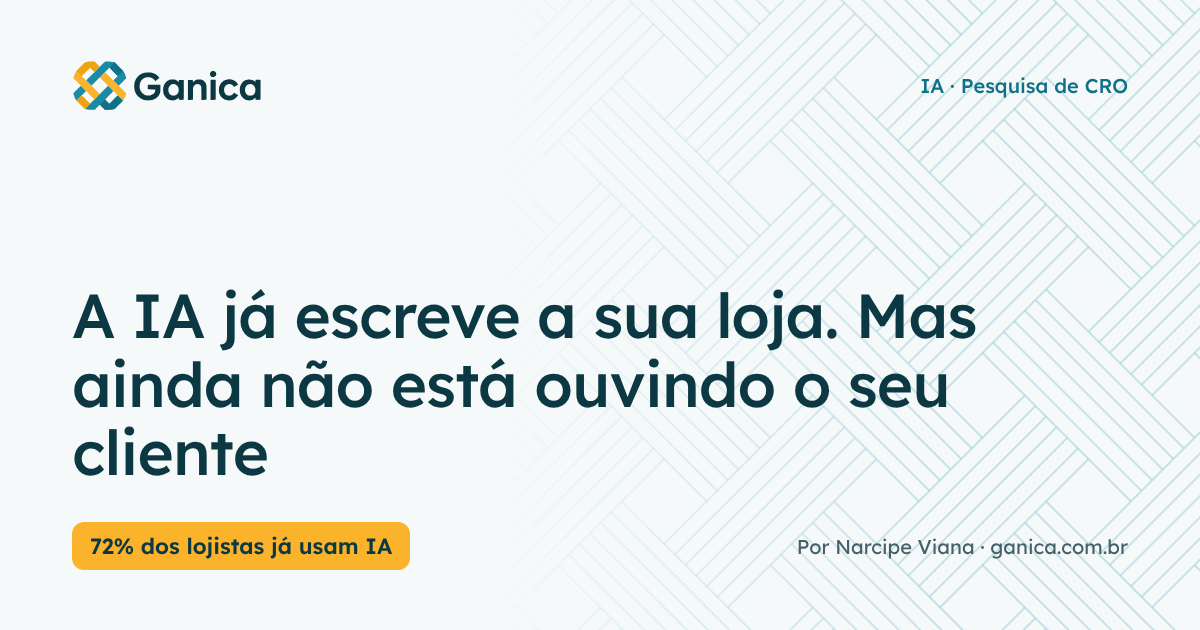
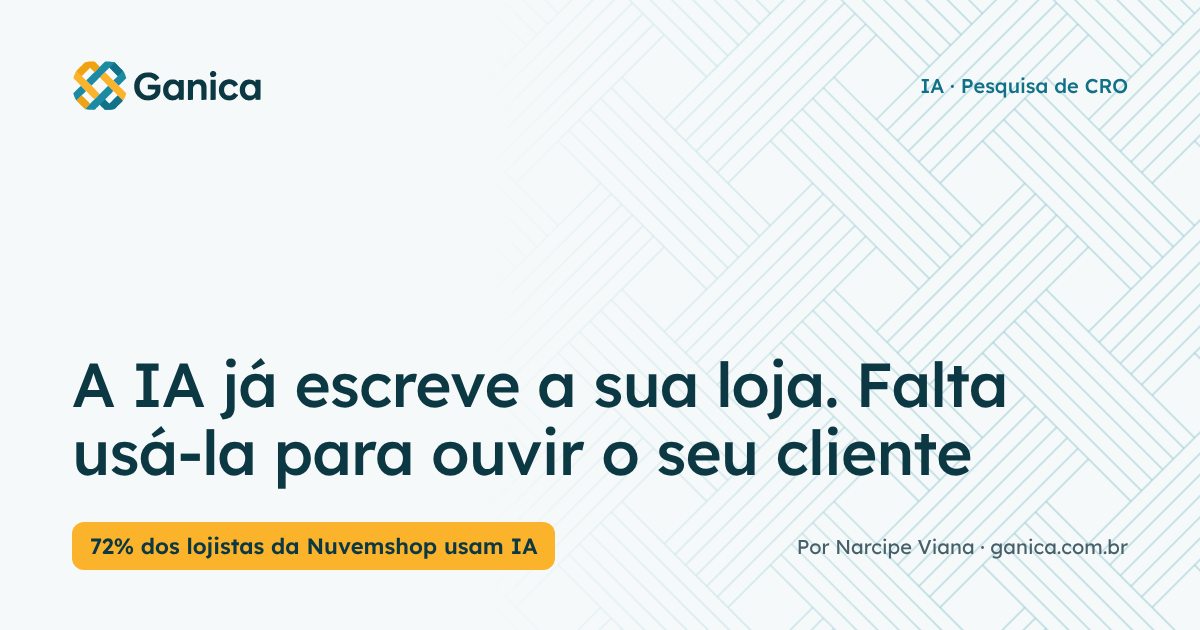
Publica estudo: A IA já escreve a sua loja. Falta usá-la para ouvir o seu cliente
Claude-Session: https://claude.ai/code/session_01MZ6zKQQzgzHvKEa5Rb3z2d

Changed region(s): [[0.0617, 0.4524, 0.8633, 0.7841], [0.2158, 0.8143, 0.4625, 0.9048]]

diff --git a/src/artigos/ia-pesquisa-cro-ecommerce-brasil.md b/src/artigos/ia-pesquisa-cro-ecommerce-brasil.md
@@ -1,20 +1,20 @@
 ---
-title: "A IA já escreve a sua loja. Mas ainda não está ouvindo o seu cliente"
-seo_title: "IA na pesquisa de CRO: o que automatizar no e-commerce"
-og_title: "IA na pesquisa de CRO: o que o e-commerce brasileiro deveria automatizar"
-description: "72% dos lojistas brasileiros já usam IA, a maioria para escrever. Veja o que automatizar na pesquisa de CRO, o que nunca delegar e onde entra a LGPD."
-twitter_description: "O e-commerce brasileiro usa IA para escrever descrição de produto. O ganho maior está em usar IA para entender o cliente, com método e cuidado com a LGPD."
+title: "A IA já escreve a sua loja. Falta usá-la para ouvir o seu cliente"
+seo_title: "IA na pesquisa de CRO: como ouvir o cliente com método e LGPD"
+og_title: "IA na pesquisa de CRO: o e-commerce usa IA para escrever, falta usá-la para ouvir o cliente"
+description: "IA na pesquisa de CRO: 72% dos lojistas da Nuvemshop já usam IA, sobretudo no catálogo. Veja como usar IA para ouvir o cliente, com critério e LGPD."
+twitter_description: "Na Nuvemshop, o lojista usa IA sobretudo para preencher o catálogo. O ganho maior está em usar IA para entender o cliente, com método e cuidado com a LGPD."
 slug: ia-pesquisa-cro-ecommerce-brasil
-date: '2026-11-06'
-updated: '2026-11-06'
-rascunho: true
-publicar_em: '2026-11-06'
+date: '2026-11-09'
+hora: "07:13"
+updated: '2026-11-09'
+rascunho: false
 breadcrumb: IA na pesquisa de CRO
 secao: E-commerce
 card_kicker: "IA · Pesquisa de CRO"
-card_destaque: "72% dos lojistas já usam IA"
-card_titulo: "A IA já escreve a sua loja. Mas ainda não está ouvindo o seu cliente."
-card_resumo: "Os lojistas brasileiros adotaram IA para produzir conteúdo. Cruzamos dados do Brasil com o método proposto pela CXL para mostrar onde a IA rende mais na pesquisa de CRO, e onde ela não deve decidir sozinha."
+card_destaque: "72% dos lojistas da Nuvemshop usam IA"
+card_titulo: "A IA já escreve a sua loja. Falta usá-la para ouvir o seu cliente."
+card_resumo: "Os lojistas da Nuvemshop usam IA sobretudo no catálogo e querem levá-la ao marketing em 2026. Partimos de um método publicado pela CXL e de dados do Brasil para mostrar onde a IA ajuda a entender o cliente, e onde ela não deve decidir sozinha."
 tags_artigo:
   - CRO
   - inteligência artificial
@@ -24,7 +24,7 @@ keywords:
   - IA para CRO
   - inteligência artificial no e-commerce
   - pesquisa de CRO com IA
-  - análise heurística com IA
+  - voz do cliente com IA
   - IA e LGPD no e-commerce
 sobre:
   - Otimização de conversão (CRO)
@@ -32,126 +32,124 @@ sobre:
   - Pesquisa de usuário
   - Lei Geral de Proteção de Dados
 imagem_og: ''
-resposta_curta: "Na pesquisa de CRO, a IA rende mais quando organiza evidência e menos quando decide. Automatize a revisão heurística inicial, o agrupamento de comentários, chamados e respostas de pesquisa em temas, e o rascunho de hipóteses. Mantenha com pessoas a validação contra o comportamento real, a priorização do backlog e qualquer coisa que substitua a voz do cliente. E retire dados pessoais antes de enviar qualquer material à ferramenta."
-deck: "O e-commerce brasileiro adotou IA rápido, mas quase sempre para produzir conteúdo. Este estudo parte de um método publicado pela CXL, confronta com dados do Brasil e mostra o que vale automatizar na pesquisa de CRO, o que nunca delegar e o que a LGPD muda nessa conta."
+resposta_curta: "Na pesquisa de CRO, a IA rende mais quando organiza evidência e menos quando decide. Entregue a ela o trabalho braçal que dá para conferir por amostragem: agrupar perguntas de clientes, avaliações e termos da busca interna em temas, e fazer um primeiro rascunho de problemas e hipóteses. Mantenha com pessoas a confirmação no comportamento real e a priorização. E retire dados pessoais antes de enviar qualquer material."
+deck: "Entre os lojistas da Nuvemshop, a IA já é rotina, mas sobretudo para produzir conteúdo. Este estudo parte de um método publicado pela CXL, confronta com dados do Brasil e propõe um critério simples para decidir o que entregar à IA na pesquisa de CRO, com a LGPD dentro da conta."
 resumo:
-  - "Segundo o NuvemCommerce 2026, da Nuvemshop, **72% dos lojistas** online brasileiros usam IA nas operações, e o uso mais citado é **gerar descrição de produto (50%)**."
+  - "Segundo o NuvemCommerce 2026, da Nuvemshop, **72% dos lojistas** da plataforma usam IA de forma ativa, e o uso principal é preencher o catálogo de produtos, citado por **50%**."
+  - "Para 2026, o mesmo relatório aponta foco em vendas e relacionamento: **58%** querem IA no marketing e **54%** planejam atendimento com chatbot. Análise de dados também está entre as três prioridades de IA para 2026."
   - "Entre as empresas brasileiras em geral, a adoção ainda é minoria: **17%** usaram IA em 2025, segundo a TIC Empresas, do Cetic.br. Nas pequenas, **15%**; nas grandes, **50%**."
-  - "A CXL propõe o caminho inverso do que o varejo brasileiro vem fazendo: usar IA para **entender** o cliente (organizar pesquisa), não só para **falar** com ele."
-  - "A IA funciona bem nas etapas de **pouca evidência e muito trabalho braçal** (revisão heurística, agrupamento de temas). Ela falha quando **pontua e prioriza** sozinha."
-  - "Gravação de sessão, conversa de atendimento e resposta de pesquisa carregam **dado pessoal**. No Brasil, isso coloca a LGPD dentro do método, um ponto que o texto da CXL não discute."
+  - "O critério proposto pela Ganica para delegar uma tarefa de pesquisa à IA tem três perguntas: dá para **conferir por amostragem**, o erro é **barato antes da validação** e a tarefa **dispensa saber receita e esforço**?"
+  - "Conversa de atendimento, gravação de sessão e resposta de pesquisa carregam **dado pessoal**. No Brasil, a LGPD entra no método, um ponto que o texto da CXL não discute."
 faq:
-  - pergunta: "A IA pode substituir entrevistas com clientes?"
-    resposta: "Não. A IA pode analisar transcrições de entrevistas reais e acelerar a síntese, mas não deve inventar respostas de clientes nem simular entrevistados. Resposta simulada reflete o que o modelo supõe, não o que o seu cliente pensa."
   - pergunta: "Qual ferramenta de IA usar para pesquisa de CRO?"
-    resposta: "Depende menos da ferramenta e mais do processo. Qualquer assistente de linguagem com bom contexto faz revisão heurística e agrupamento de temas. O critério de escolha que importa é o que a ferramenta faz com os dados enviados: se armazena, se usa para treinar modelos e onde processa."
-  - pergunta: "Posso enviar gravações de sessão e conversas de WhatsApp para uma IA?"
-    resposta: "Só depois de retirar ou mascarar dados pessoais, como nome, e-mail, telefone, CPF e endereço, e de conferir os termos da ferramenta. A LGPD se aplica aos dados pessoais tratados, e a IA não muda isso. Em tratamento em grande escala, um relatório de impacto à proteção de dados é o caminho prudente. Na dúvida, consulte um especialista em proteção de dados."
+    resposta: "Depende menos da ferramenta e mais do processo. Os assistentes de IA mais comuns já agrupam comentários em temas, e os que acessam páginas fazem uma primeira leitura delas. O critério que mais pesa na escolha é o que a ferramenta faz com os dados enviados: se armazena, por quanto tempo e se usa para treinar modelos."
+  - pergunta: "Posso enviar conversas de WhatsApp e gravações de sessão para uma IA?"
+    resposta: "Sim, mas só depois de retirar ou mascarar dados pessoais, como nome, e-mail, telefone, CPF e endereço, e de conferir os termos da ferramenta. A LGPD vale para os dados pessoais tratados, qualquer que seja a ferramenta, e, enquanto o dado puder ser ligado à pessoa, mesmo com o nome trocado por código, ele continua sendo dado pessoal, então o cuidado com a ferramenta continua. Na dúvida, consulte um especialista em proteção de dados."
+  - pergunta: "A IA consegue dizer quanto um problema da loja custa em vendas?"
+    resposta: "Não sozinha. Para estimar o custo de um problema, é preciso saber quantas pessoas passam pela etapa afetada, quanto elas compram e quanto custa corrigir, e esses números estão no analytics e na operação da loja. A IA pode ajudar a fazer a conta, mas os dados de entrada e a decisão são de quem conhece o negócio."
   - pergunta: "Pequeno e-commerce consegue usar IA na pesquisa de CRO?"
-    resposta: "Sim, e talvez seja quem mais ganha. A parte que a IA acelera, organizar centenas de comentários e chamados em temas, é justamente a que equipes pequenas não têm tempo de fazer. O que não muda é a necessidade de validar cada tema contra o comportamento real antes de mexer no site."
-fontes: "Artigo de partida: Tarek Reslan, \"AI for CRO research: what to automate (and what not to)\", CXL, publicado em agosto de 2026 e atualizado em outubro de 2026 (ideias resumidas em paráfrase). TIC Empresas 2025, Cetic.br/NIC.br: empresas com mais de dez pessoas ocupadas, 4.174 entrevistas por telefone de fevereiro de 2025 a janeiro de 2026. NuvemCommerce 2026, da Nuvemshop, com mais de 1.500 lojistas, conforme divulgado pela TI Inside em julho de 2026 (o método de coleta não foi informado na divulgação). TIC Domicílios 2025, Cetic.br/NIC.br, campo de março a setembro de 2025. Nota Técnica nº 12/2025 da ANPD, que consolida contribuições da sociedade a uma tomada de subsídios sobre IA e não representa posição final da autoridade. Lei nº 13.709/2018 (LGPD). Este estudo não é orientação jurídica."
+    resposta: "Sim, e talvez seja quem mais ganha. A parte que a IA acelera, organizar centenas de comentários e chamados em temas, é justamente a que equipes pequenas não têm tempo de fazer. O que não muda é a necessidade de confirmar cada tema no comportamento real antes de mexer no site."
+fontes: "Artigo de partida: Tarek Reslan, \"AI for CRO research: what to automate (and what not to)\", CXL, publicado em 20 de agosto de 2026 e atualizado em 5 de novembro de 2026 (ideias resumidas em paráfrase; consulta em novembro de 2026). NuvemCommerce 2026, relatório da Nuvemshop: questionário quantitativo com mais de 1.500 lojistas da plataforma, aplicado de outubro a dezembro de 2025. TIC Empresas 2025, Cetic.br/NIC.br: empresas com mais de dez pessoas ocupadas, 4.174 entrevistas por telefone de fevereiro de 2025 a janeiro de 2026. Central de Ajuda do Google Analytics (exploração de funil e DebugView), consultada em novembro de 2026. Nota Técnica nº 12/2025/CON1/CGN/ANPD, publicada em maio de 2025, que consolida as contribuições da tomada de subsídios sobre inteligência artificial e revisão de decisões automatizadas e não representa posição final da autoridade. Lei nº 13.709/2018 (LGPD). O critério de três perguntas é proposta da Ganica. Este estudo não é orientação jurídica."
 fontes_urls:
   - "AI for CRO research, Tarek Reslan (CXL) | https://cxl.com/blog/ai-cro-research/"
+  - "NuvemCommerce 2026, relatório completo (Nuvemshop, PDF) | https://site.nuvemshop.com.br/hubfs/%5BBR%5D%20Descarreg%C3%A1veis/NuvemCommerce%202026.pdf"
   - "TIC Empresas 2025, resumo executivo (Cetic.br/NIC.br, PDF) | https://cetic.br/media/docs/publicacoes/2/pt-br/20260831091252/TIC_EMPRESAS_2025_PT_RE.pdf"
-  - "NuvemCommerce 2026, da Nuvemshop, conforme a TI Inside (jul. 2026) | https://tiinside.com.br/15/07/2026/72-dos-e-commerces-utilizam-ia-ativamente-aponta-nuvemshop/"
-  - "TIC Domicílios 2025, resumo executivo (Cetic.br/NIC.br, PDF) | https://www.cetic.br/media/docs/publicacoes/2/pt-br/20260511173151/tic_domicilios_2025_resumoexecutivo%20pt.pdf"
-  - "Nota Técnica nº 12/2025 da ANPD sobre IA e decisões automatizadas (PDF) | https://www.ba.gov.br/ssp/sites/site-ssp/files/2026-01/26.%20Nota%20a%20t%C3%A9cnica%20n.%C2%BA%2012%20ANPD%20sobre%20AI%20e%20decis%C3%B5es%20automatizadas.pdf"
+  - "Exploração de funil, Central de Ajuda do Google Analytics (Google) | https://support.google.com/analytics/answer/9327974"
+  - "Nota Técnica nº 12/2025, consolidação da tomada de subsídios sobre IA e decisões automatizadas (ANPD, PDF) | https://www.gov.br/anpd/pt-br/acesso-a-informacao/participacao-social/outras-acoes/documentos/ts-06-2024-nt-12-2025-consolidacao-das-contribuicoes.pdf/@@display-file/file"
+  - "Monitorar eventos no DebugView, Central de Ajuda do Google Analytics (Google) | https://support.google.com/analytics/answer/7201382"
   - "Lei nº 13.709/2018, Lei Geral de Proteção de Dados (Planalto) | https://www.planalto.gov.br/ccivil_03/_ato2015-2018/2018/lei/l13709.htm"
 cta_titulo: "Quer saber o que o seu cliente está dizendo, e onde ele desiste?"
 cta_texto: "A IA organiza a evidência. Um diagnóstico de CRO cruza essa evidência com o comportamento real da sua loja e diz o que corrigir primeiro."
-autor_texto: "Sou consultor de CRO focado em e-commerce, com trabalho direto em estrutura de analytics (GTM, GA4, Looker Studio) e auditoria comportamental. Uso IA como apoio de pesquisa nos diagnósticos, sempre com a mesma regra: ela organiza a evidência, e a decisão fica com quem conhece o comportamento real da loja."
+autor_texto: "Sou consultor de CRO focado em e-commerce, com trabalho direto em estrutura de analytics (GTM, GA4, Looker Studio) e auditoria comportamental. Minha regra para IA na pesquisa é simples: ela organiza a evidência, e a decisão fica com quem conhece o comportamento real da loja."
 ---
 
 ## O que a CXL propõe sobre IA na pesquisa de CRO?
 
-A proposta da CXL é usar IA nas etapas da pesquisa de CRO em que há muito trabalho operacional e pouca evidência, e manter pessoas nas etapas em que há julgamento. [O texto](https://cxl.com/blog/ai-cro-research/), publicado em agosto de 2026 por Tarek Reslan, relata um workshop interno com Ruben de Boer, consultor de experimentação, em que um agente de IA foi encadeado em três tarefas: revisão heurística das jornadas, análise temática dos achados e geração de ideias de teste.
+A CXL propõe usar IA na pesquisa de CRO para o trabalho repetitivo e manter pessoas onde há julgamento. CRO (otimização da taxa de conversão) é o trabalho de descobrir por que os visitantes de uma loja não compram e corrigir isso com método. [O artigo da CXL](https://cxl.com/blog/ai-cro-research/), escrito por Tarek Reslan, publicado em agosto de 2026 e atualizado em novembro, conta um workshop da CXL em que um agente de IA (um assistente que executa tarefas em sequência) fez três etapas da pesquisa: uma avaliação das jornadas por critérios de experiência (relevância, clareza, atrito e motivação), o agrupamento dos achados em temas e a sugestão de ideias de teste. Segundo o texto, o agente avaliou cinco jornadas completas em cerca de 30 minutos.
 
-A escolha da revisão heurística como ponto de partida tem uma lógica que vale guardar. Revisão heurística é a avaliação de uma página por critérios de usabilidade e persuasão (clareza, relevância, fricção, motivação), normalmente feita por uma ou duas pessoas, e por isso é uma das formas de evidência mais fracas da pesquisa de CRO. Se a evidência já é fraca, automatizar custa pouco e economiza muito: segundo a CXL, o agente revisou cinco jornadas em cerca de meia hora, contra horas de um workshop humano.
+O texto também marca limites: as notas da IA parecem precisas, mas são opinião a conferir no comportamento real; a IA não deve partir de uma "boa prática" e depois buscar evidência para ela; e cada passagem entre etapas pede revisão humana.
 
-O artigo também é honesto sobre os limites. A CXL alerta que as notas que a IA dá a cada problema parecem precisas, mas são julgamento subjetivo, e que priorizar o backlog é o ponto mais fraco do método automatizado. E condena o que chama de pesquisa como decoração: a IA propor uma "boa prática" primeiro e depois procurar evidência que a justifique.
+## O que o artigo da CXL deixa de fora?
 
-Há, porém, três lacunas. O texto não traz nenhum dado de resultado (se as ideias da IA performaram melhor ou pior em teste), não descreve o site nem os critérios usados no workshop, e não discute privacidade, embora recomende enviar gravações, pesquisas e exportações de analytics para a ferramenta. Para quem opera no Brasil, a terceira lacuna é a mais importante.
+O artigo da CXL deixa de fora três coisas que pesam para uma loja brasileira: resultado de testes, o site ou setor analisado e a privacidade dos dados. Sem as duas primeiras, não dá para saber se as ideias da IA venceram em testes reais nem se a experiência vale para um e-commerce.
+
+A terceira lacuna é a mais importante no Brasil. O método sugere alimentar a IA com pesquisas, exportações de analytics e gravações de sessão, material que costuma carregar dados pessoais, e aqui a [Lei Geral de Proteção de Dados (LGPD)](https://www.planalto.gov.br/ccivil_03/_ato2015-2018/2018/lei/l13709.htm) se aplica a ele, qualquer que seja a ferramenta.
 
 ## Como o e-commerce brasileiro está usando IA hoje?
 
-O e-commerce brasileiro já adotou IA em massa, mas principalmente para produzir conteúdo. Segundo o NuvemCommerce 2026, da Nuvemshop, [divulgado pela TI Inside em julho de 2026](https://tiinside.com.br/15/07/2026/72-dos-e-commerces-utilizam-ia-ativamente-aponta-nuvemshop/), 72% dos lojistas online usam IA ativamente nas operações. O uso mais citado é gerar descrição de produto, apontado por 50%, e 54% pretendem implementar atendimento ou chatbot com IA em 2026.
+Entre os lojistas da Nuvemshop, a IA já é rotina, mas sobretudo para produzir conteúdo. O [NuvemCommerce 2026, relatório da Nuvemshop](https://site.nuvemshop.com.br/hubfs/%5BBR%5D%20Descarreg%C3%A1veis/NuvemCommerce%202026.pdf) com mais de 1.500 lojistas da plataforma entre outubro e dezembro de 2025, mostra que 72% deles usam IA de forma ativa, e que o uso principal é preencher o catálogo de produtos (descrições, imagens e vídeos), citado por 50%.
 
-Fora do e-commerce, o quadro é bem mais tímido. A [TIC Empresas 2025, do Cetic.br](https://cetic.br/media/docs/publicacoes/2/pt-br/20260831091252/TIC_EMPRESAS_2025_PT_RE.pdf), mostra que 17% das empresas brasileiras com mais de dez pessoas ocupadas usaram IA em 2025, contra 13% em 2024. A diferença por porte é grande: 15% entre as pequenas e 50% entre as grandes.
+Para 2026, o NuvemCommerce 2026 aponta foco em vendas e relacionamento: 58% dos lojistas querem IA no marketing e na publicidade, e 54% planejam atendimento com chatbots. A análise de dados também aparece entre as três prioridades de IA para 2026 no gráfico do relatório.
+
+No conjunto das empresas, o quadro é mais tímido. A [TIC Empresas 2025, do Cetic.br](https://cetic.br/media/docs/publicacoes/2/pt-br/20260831091252/TIC_EMPRESAS_2025_PT_RE.pdf), mostra que 17% das empresas brasileiras com mais de dez pessoas ocupadas usaram IA em 2025, contra 13% em 2024. Nas pequenas, 15%; nas grandes, 50%. Entre as que usam, 80% adotam soluções prontas, e o tipo de aplicação mais citado é a automação de processos e fluxos de trabalho (68% das que usaram IA). O segundo é a mineração de texto e análise da linguagem escrita (38%, contra 22% em 2024), a tecnologia que lê comentários e conversas.
 
 | Indicador | Valor |
 |---|---|
-| Lojistas online que usam IA ativamente (NuvemCommerce 2026) | 72% |
-| Lojistas que usam IA para descrição de produto (NuvemCommerce 2026) | 50% |
+| Lojistas da Nuvemshop que usam IA de forma ativa (NuvemCommerce 2026) | 72% |
+| Lojistas que usam IA no catálogo de produtos (NuvemCommerce 2026) | 50% |
+| Lojistas que querem IA no marketing em 2026 (NuvemCommerce 2026) | 58% |
+| Lojistas que planejam chatbot com IA em 2026 (NuvemCommerce 2026) | 54% |
 | Empresas brasileiras que usaram IA em 2025 (TIC Empresas) | 17% |
-| Pequenas empresas que usaram IA em 2025 (TIC Empresas) | 15% |
-| Grandes empresas que usaram IA em 2025 (TIC Empresas) | 50% |
-| Empresas usuárias de IA que compram solução pronta (TIC Empresas) | 80% |
-| Usuários de internet que usaram IA generativa nos últimos 3 meses (TIC Domicílios 2025) | 32% |
+| Empresas usuárias de IA que aplicam mineração de texto (TIC Empresas) | 38% |
 
-*As pesquisas têm universos e métodos diferentes e não devem ser somadas. A divulgação do NuvemCommerce não informa o método de coleta.*
-
-Dois números da TIC Empresas ajudam a entender o tipo de uso. Entre as empresas que usam IA, 80% compram software pronto, e a finalidade mais comum é automatizar processos e fluxos de trabalho, citada por 68%. Já o aprendizado de máquina para previsão e análise de dados aparece em 25%. A IA entrou nas empresas brasileiras pela porta da produtividade, não pela porta da análise.
+*Fontes: NuvemCommerce 2026 (Nuvemshop) e TIC Empresas 2025 (Cetic.br). As pesquisas têm universos e métodos diferentes e não devem ser somadas.*
 
 ## Onde está o descompasso entre o que a CXL propõe e o que o Brasil faz?
 
-O descompasso é de direção: o varejo brasileiro usa IA para falar com o cliente, e a CXL propõe usar IA para ouvir o cliente. Gerar descrição de produto e responder no chat são usos de saída. Organizar o que o cliente disse em pesquisas, avaliações e atendimentos é uso de entrada, e é nele que está a maior parte do ganho para conversão.
+O descompasso é de direção: os lojistas pesquisados usam IA principalmente para produzir o que a loja mostra ao cliente, e planejam levá-la a anúncios e chatbots em 2026; a CXL propõe usar IA para ouvir o cliente. Catálogo, anúncio e chat são usos de saída; organizar o que o cliente disse é uso de entrada, e é nele que aparece o motivo de a página não converter.
 
-A consequência prática é que muitas lojas estão acelerando a produção de páginas sem saber melhor por que as páginas não convertem. Uma descrição de produto escrita em dez segundos não resolve a dúvida que faz o cliente abandonar o carrinho, se ninguém descobriu qual é essa dúvida.
+Há nuance: a análise de dados já está no radar dos lojistas, e a leitura de texto por IA cresce nas empresas. Mas nenhuma das pesquisas citadas mede quanto disso é aplicado à voz do cliente no e-commerce, ou seja, ao que ele escreve e pergunta antes de comprar ou desistir.
 
-Na Ganica, quando organizamos a pesquisa de um diagnóstico, a matéria-prima mais rica raramente é o analytics. É o que o cliente escreveu: perguntas no atendimento, termos da busca interna, avaliações, respostas a pesquisas curtas no checkout. No Brasil, uma parte enorme desse material está em conversas de WhatsApp e em chamados de atendimento, volume que uma equipe pequena nunca consegue ler inteiro. É exatamente o tipo de trabalho que a IA faz bem.
+No Brasil, essa voz do cliente está no WhatsApp, nos chamados de atendimento, nas perguntas em marketplaces, nas avaliações e na busca interna: muito material para uma equipe pequena ler, e exatamente o que a IA organiza bem. Uma descrição de produto escrita em segundos não resolve a dúvida que faz o cliente abandonar o carrinho, se ninguém descobriu qual é essa dúvida.
 
-> A IA que escreve a descrição do produto é útil. A IA que lê mil perguntas de clientes e mostra qual dúvida trava a compra é a que muda a conversão.
+> A IA que escreve a descrição do produto é útil. A IA que lê mil perguntas de clientes e aponta qual dúvida parece travar a compra mostra onde investigar primeiro.
 
-## O que automatizar na pesquisa de CRO, e o que nunca delegar?
+## Qual critério usar antes de delegar uma tarefa de pesquisa de CRO à IA?
 
-A regra que funciona é automatizar o que organiza evidência e manter com pessoas o que decide com base nela. Adaptando o método da CXL à realidade de um e-commerce brasileiro:
+A Ganica propõe decidir com três perguntas para cada tarefa. Sim nas três, a tarefa pode ir para a IA; não em qualquer uma, ela fica com uma pessoa, com a IA no máximo como apoio. O critério parte de duas recomendações da CXL (ligar cada achado à sua fonte e deixar com pessoas a revisão de impacto e esforço) e as transforma num teste rápido.
 
-| Etapa da pesquisa | Automatizar com IA? |
-|---|---|
-| Revisão heurística inicial das páginas | **Sim, como primeiro rascunho.** A evidência já é fraca; a IA cobre mais páginas em menos tempo. |
-| Agrupar comentários, chamados, avaliações e respostas de pesquisa em temas | **Sim.** Volume alto e trabalho braçal, com cada tema citando os trechos de origem. |
-| Classificar termos da busca interna por intenção | **Sim.** Padrão repetitivo, fácil de conferir por amostragem. |
-| Rascunhar hipóteses a partir dos temas | **Sim, com revisão.** Cada hipótese precisa apontar para o tema e a evidência que a originou. |
-| Validar temas contra o comportamento real (funil, heatmap, gravações) | **Não.** É o que transforma suposição em evidência. |
-| Priorizar o backlog | **Não.** A nota da IA não sabe o impacto em receita, o esforço técnico nem o contexto do negócio. |
-| Simular entrevistas ou "persona sintética" no lugar de clientes reais | **Nunca.** Mede o que o modelo supõe, não o que o seu cliente pensa. |
+1. **Dá para conferir o resultado por amostragem?** Se uma pessoa consegue abrir dez itens ao acaso e ver se a IA acertou, o erro aparece rápido.
+2. **O erro é barato antes da validação?** Um tema mal agrupado é corrigido antes de virar decisão. Uma prioridade errada vira semanas de tecnologia gastas no lugar errado.
+3. **A tarefa dispensa saber receita e esforço?** Tudo o que depende de quanto um problema custa em vendas e de quantas horas a correção consome exige dados que estão na operação, não no texto enviado à IA.
 
-O ponto da priorização merece ênfase. Uma nota de 7,8 dada pela IA a um problema parece um número, mas é uma opinião formatada. Priorizar exige saber quanto aquele problema custa em receita e quantas horas de tecnologia a correção consome, informação que só existe dentro da operação.
+Aplicado ao material de uma loja brasileira, o critério separa bem o trabalho. Agrupar perguntas de WhatsApp e chamados em temas passa nas três, desde que cada tema traga os trechos de origem. Classificar termos da busca interna por intenção também passa, porque é repetitivo e fácil de conferir. Uma primeira avaliação das páginas passa como rascunho, já que a própria CXL a trata como evidência fraca, boa só para levantar suspeitas.
 
-## O que a LGPD muda nessa conta?
+Já confirmar um tema no comportamento real falha na segunda pergunta: é a etapa que transforma hipótese em decisão, e ali o erro deixa de ser barato. Priorizar a lista de melhorias falha na terceira, porque depende de quanto cada problema custa em vendas e de quanto custa corrigir, dados que estão na operação. E substituir clientes reais por respostas simuladas falha já na primeira: não existe resposta real com que conferir a amostra. O artigo da CXL deixa entrevistas simuladas fora do fluxo, por substituírem o retorno de clientes reais.
 
-A [LGPD](https://www.planalto.gov.br/ccivil_03/_ato2015-2018/2018/lei/l13709.htm) coloca a privacidade dentro do método: antes de enviar qualquer material de pesquisa para uma ferramenta de IA, a loja precisa retirar ou mascarar os dados pessoais. Gravação de sessão, conversa de atendimento, resposta de pesquisa e exportação de CRM costumam trazer nome, e-mail, telefone, CPF e endereço. A Lei nº 13.709/2018 se aplica a esses dados, qualquer que seja a ferramenta que os processe.
+## O que a LGPD muda na pesquisa de CRO com IA?
 
-A Autoridade Nacional de Proteção de Dados reuniu, na [Nota Técnica nº 12/2025](https://www.ba.gov.br/ssp/sites/site-ssp/files/2026-01/26.%20Nota%20a%20t%C3%A9cnica%20n.%C2%BA%2012%20ANPD%20sobre%20AI%20e%20decis%C3%B5es%20automatizadas.pdf), as contribuições de uma consulta sobre IA e proteção de dados. O documento registra que as contribuições não representam a posição final da autoridade, mas as recomendações que mais aparecem são práticas e servem de bom roteiro: relatório de impacto antes de tratamentos em grande escala, privacidade desde a concepção, anonimização ou pseudonimização sempre que possível e registro do que foi tratado e por quê.
+A LGPD coloca a privacidade dentro do método: antes de enviar qualquer material de pesquisa para uma ferramenta de IA, o caminho mais seguro é retirar ou mascarar os dados pessoais. A lei pede que cada tratamento tenha finalidade definida e use só os dados necessários (art. 6º), Só deixa de ser dado pessoal o dado anonimizado de modo que não possa mais ser ligado à pessoa (art. 12). Trocar o nome por código não basta, e um texto livre pode identificar alguém mesmo sem o nome. Atendimento, gravações, pesquisas e cadastros costumam trazer nome, e-mail, telefone, CPF e endereço.
 
-Para a pesquisa de CRO, isso se traduz em três cuidados:
+Em 2025, a Autoridade Nacional de Proteção de Dados (ANPD) publicou a [Nota Técnica nº 12/2025](https://www.gov.br/anpd/pt-br/acesso-a-informacao/participacao-social/outras-acoes/documentos/ts-06-2024-nt-12-2025-consolidacao-das-contribuicoes.pdf/@@display-file/file), que resume o que a sociedade disse numa consulta (tomada de subsídios) sobre IA e decisões automatizadas. Não é a posição final da autoridade, e o foco em decisões automatizadas sobre pessoas (art. 20) não alcança o agrupamento de comentários. Ainda assim, as boas práticas em que as contribuições convergem servem de roteiro: privacidade desde a concepção, anonimização (fazer com que o dado não possa mais ser ligado à pessoa, com os meios técnicos razoáveis disponíveis) ou pseudonimização (trocar nome e contato por códigos), transparência, documentação do tratamento e relatório de impacto em situações de maior risco, como dados sensíveis.
 
-1. **Limpe antes de enviar.** Remova ou substitua nomes, contatos e documentos das transcrições e exportações. Para agrupar temas, a IA não precisa saber quem disse o quê.
-2. **Leia os termos da ferramenta.** Verifique se os dados enviados são armazenados, por quanto tempo e se podem ser usados para treinar modelos. Planos corporativos costumam ter condições diferentes dos gratuitos.
-3. **Registre o tratamento.** Anote qual material foi enviado, para qual ferramenta e com qual finalidade. Se alguém perguntar, a loja sabe responder.
+Na pesquisa de CRO, são três cuidados:
 
-Este estudo não é orientação jurídica. Em operações com volume grande de dados ou dados sensíveis, como saúde, vale ouvir um especialista em proteção de dados antes de começar.
+- **Limpe antes de enviar.** Para agrupar temas, a IA não precisa saber quem disse o quê.
+- **Leia os termos da ferramenta.** Verifique se os dados enviados são armazenados, por quanto tempo e se treinam modelos. Confira também se a política de privacidade da loja cobre esse uso e onde os dados são processados: envio para servidores fora do Brasil é transferência internacional e segue regras próprias da LGPD (art. 33).
+- **Registre o tratamento.** Anote qual material foi enviado, para qual ferramenta e com qual finalidade.
+
+Este estudo não é orientação jurídica. Com volume grande de dados ou dados sensíveis, como os de saúde, ouça antes um especialista em proteção de dados.
 
 ## Por que a IA acelera o erro quando o dado está errado?
 
-Porque a IA não audita a fonte: ela organiza o que recebe, inclusive o que está errado. Um padrão que encontramos com frequência em diagnósticos é o GA4 contando eventos em dobro, por tags sobrepostas no gerenciador de tags, ou mostrando etapas do funil maiores que as anteriores. Um agente que recebe esse funil vai produzir temas e hipóteses coerentes sobre um problema que não existe.
+A IA acelera o erro porque não audita a fonte: ela organiza o que recebe, inclusive o que está errado. Um padrão que encontramos com frequência em diagnósticos é o GA4 (Google Analytics 4, a ferramenta de medição do Google) contando eventos em dobro por tags (os códigos de medição do site) sobrepostas no gerenciador de tags, ou mostrando etapas posteriores do funil maiores que as anteriores, por causa de cookies (os arquivos que identificam o navegador) apagados ou recusados, ou de [funil aberto](https://support.google.com/analytics/answer/9327974), em que o visitante pode entrar em qualquer etapa. Um agente que recebe esse funil produz hipóteses coerentes sobre um problema que não existe.
 
-A própria CXL resume esse risco ao dizer, em outras palavras, que um processo ruim só fica ruim mais rápido quando é automatizado. Antes de colocar IA na pesquisa, vale conferir a instrumentação: modo de depuração do GA4, consolidação de tags duplicadas e filtros de data dos relatórios. É a etapa menos glamorosa e a que mais protege a decisão.
+O texto da CXL chega a essa conclusão: com IA, processo bom ganha força e processo fraco só fica fraco mais rápido. Antes de colocar IA na pesquisa, confira a instrumentação, ou seja, se a medição registra os eventos certos: o [DebugView do GA4](https://support.google.com/analytics/answer/7201382), que mostra em tempo real os eventos de um aparelho com o modo de depuração ativado, as tags duplicadas e os filtros de data dos relatórios.
 
 ## Como começar a usar IA na pesquisa de CRO em uma semana?
 
 Dá para montar um primeiro ciclo em cinco dias, com o que a loja já tem:
 
-1. **Dia 1: junte a voz do cliente.** Exporte os últimos três meses de perguntas do atendimento, conversas de WhatsApp, avaliações de produto e termos da busca interna.
-2. **Dia 2: limpe os dados pessoais.** Retire nomes, contatos e documentos antes de qualquer envio.
-3. **Dia 3: peça os temas, com fonte.** Peça à IA para agrupar o material em temas e listar, para cada tema, os trechos de origem. Tema sem fonte é descartado.
-4. **Dia 4: confira com o comportamento.** Para cada tema forte, procure o sinal no funil, no heatmap ou nas gravações. O que não aparece no comportamento continua hipótese.
-5. **Dia 5: priorize com reais.** Para os temas confirmados, estime impacto em receita e esforço técnico, e só então monte o backlog. Esta etapa é humana.
+1. **Dia 1: junte a voz do cliente.** Exporte três meses de atendimento, WhatsApp, avaliações e busca interna.
+2. **Dia 2: limpe os dados pessoais.** Retire nomes, contatos e documentos antes de qualquer envio: use localizar e substituir para e-mail, telefone e CPF, troque nomes por "cliente" e leia uma amostra para achar o que escapou, como endereço escrito na conversa.
+3. **Dia 3: peça os temas, com fonte.** A IA agrupa o material em temas e lista os trechos de origem de cada um. Tema sem fonte é descartado; abra dez trechos ao acaso de cada tema e confira se pertencem a ele.
+4. **Dia 4: confira com o comportamento.** Para cada tema forte, procure o sinal no funil, no mapa de calor ou nas gravações. O que não aparece no comportamento continua hipótese.
+5. **Dia 5: priorize com reais.** Estime impacto em receita e esforço técnico dos temas confirmados e monte a lista de melhorias. Esta etapa é humana.
 
-Quem já mapeou os públicos do site pode cruzar cada tema com a [persona comportamental](/persona-ecommerce-cro-comportamental.html) que mais sofre com ele. E quem quer ver o método aplicado a dado de clique pode ler o estudo sobre [o botão de comprar na listagem](/botao-comprar-listagem-produtos-heatmap.html), em que o heatmap contrariou a suposição inicial.
+Para ir além, cruze cada tema com a [persona comportamental](/persona-ecommerce-cro-comportamental.html) que mais sofre com ele, veja em que etapa a loja perde mais no estudo sobre [taxa de conversão do e-commerce](/taxa-de-conversao-ecommerce.html) e o método aplicado a dado de clique no estudo sobre [o botão de comprar na listagem](/botao-comprar-listagem-produtos-heatmap.html).
 
 ## O que ainda não sabemos
 
-Ainda não há evidência pública de que ideias de teste geradas por IA performem melhor ou pior que as geradas por pessoas. O artigo da CXL não traz esse dado, e nenhuma das pesquisas brasileiras citadas aqui mede o uso de IA especificamente para análise de dados no e-commerce. A NuvemCommerce mede uso declarado pelos lojistas, sem método de coleta divulgado, e a TIC Empresas cobre empresas de todos os setores com mais de dez pessoas ocupadas.
+Não encontramos evidência pública de que ideias de teste geradas por IA tenham desempenho melhor ou pior que as criadas por pessoas. O artigo da CXL não traz esse dado. O NuvemCommerce 2026 retrata lojistas de uma única plataforma, e a TIC Empresas cobre empresas de vários setores da economia, como indústria, construção, comércio e serviços, com mais de dez pessoas ocupadas (quem trabalha na empresa, incluindo sócios), e não apenas o comércio eletrônico.
 
-O que dá para afirmar com segurança é mais modesto e mais útil: a IA economiza tempo nas etapas de organização da evidência, e o risco cresce quando ela passa a decidir. Se a sua loja quer saber onde a IA pode acelerar a pesquisa sem comprometer a decisão, esse é um dos pontos que um [diagnóstico de CRO](/#diagnostico) responde com os seus próprios dados.
+O critério de três perguntas é proposta, não resultado medido. O que dá para afirmar é mais modesto: a IA economiza tempo ao organizar a evidência, e o risco cresce quando ela passa a decidir. Se a sua loja quer saber onde a IA pode acelerar a pesquisa sem comprometer a decisão, esse é um dos pontos que um [diagnóstico de CRO](/#diagnostico) responde com os seus próprios dados.
